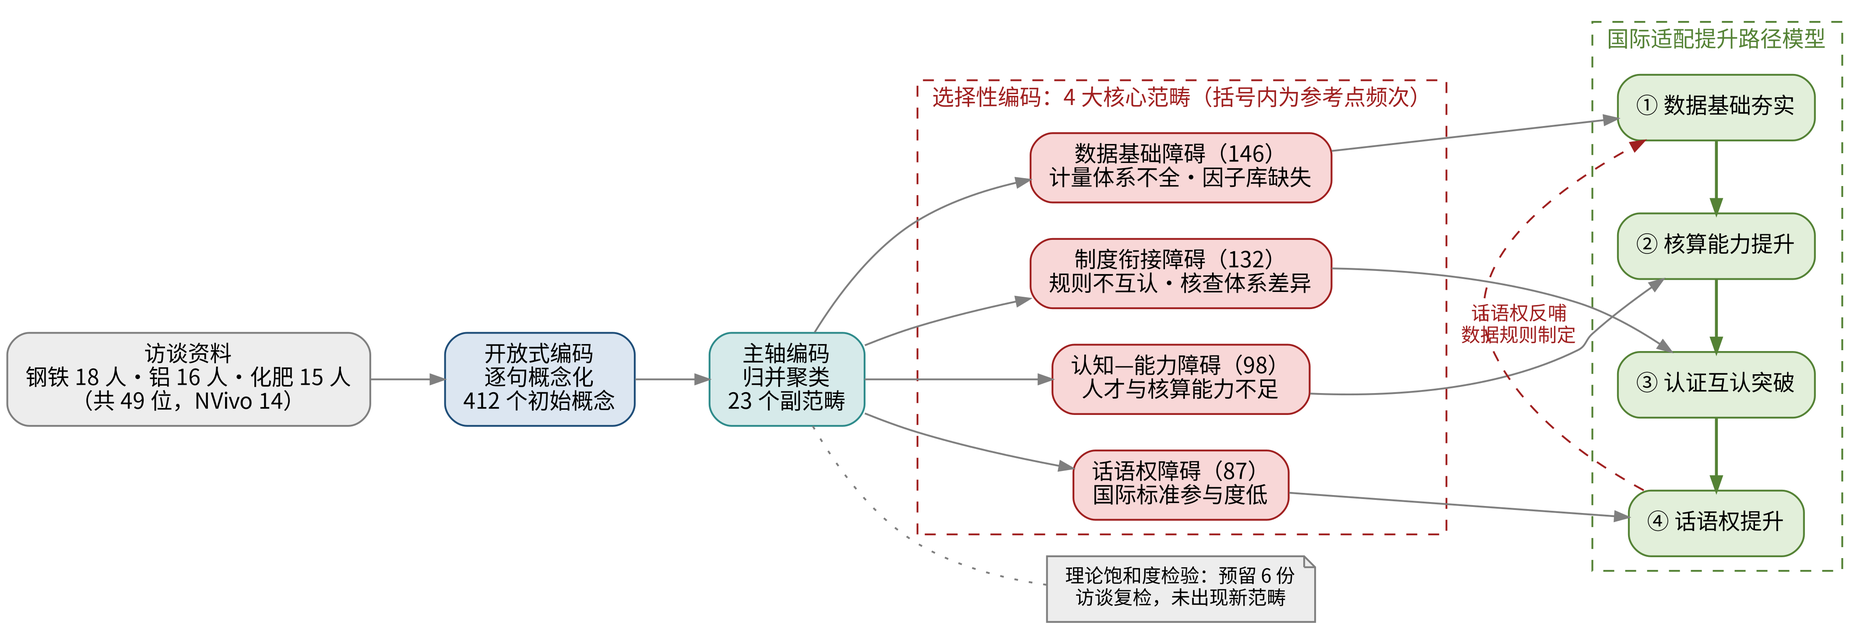
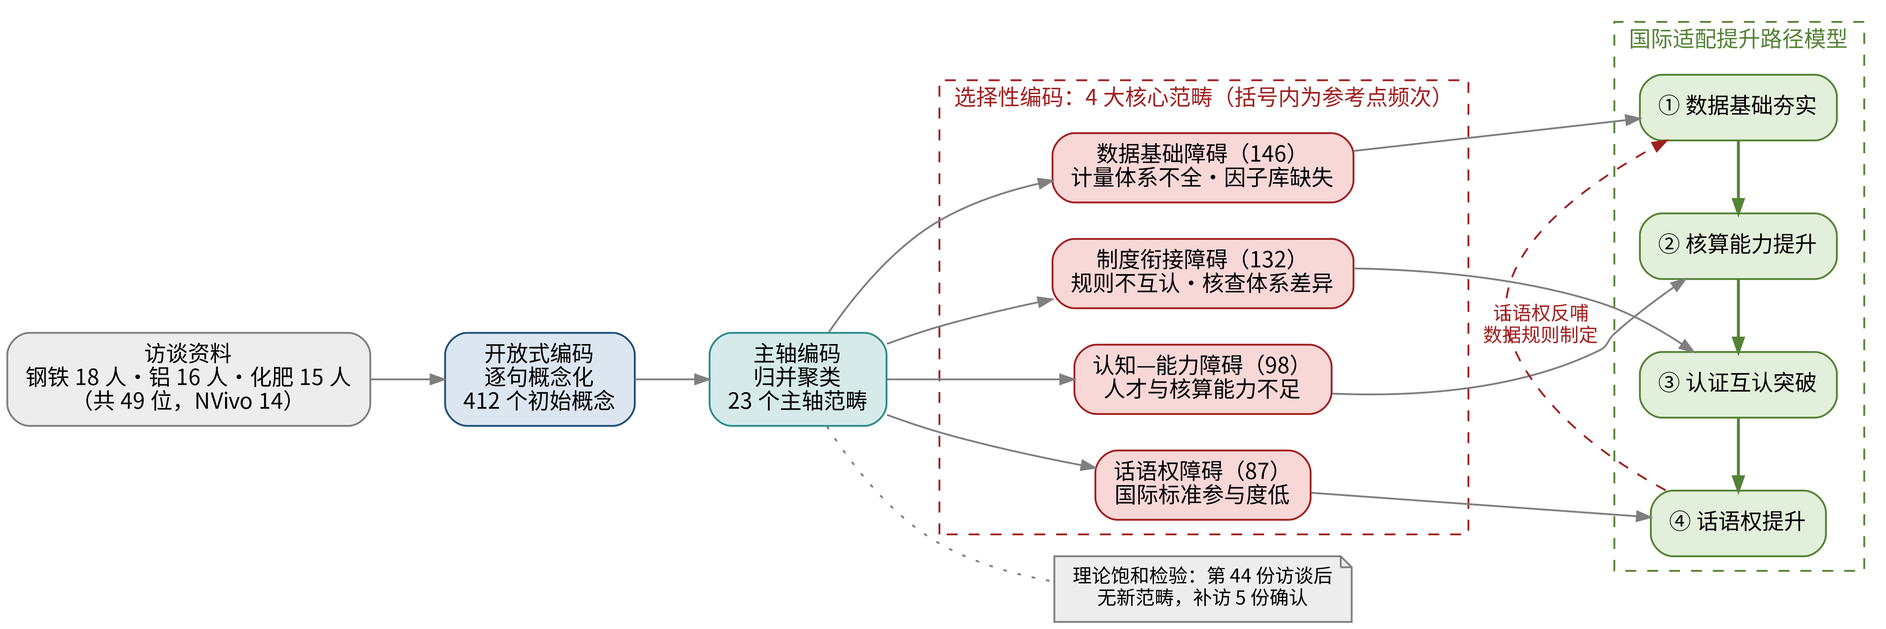
14章正文初稿（24.3万字）+ 引擎OOXML规范性修复（OMML元素序/表格边框序/settings）
Claude-Session: https://claude.ai/code/session_01QzKzGFH9nCcj4dUgUrgzSn

diff --git a/green-standards-book/content_ch02.py b/green-standards-book/content_ch02.py
@@ -57,7 +57,8 @@ def blocks():
           '若标准供给充分、激励设计合理、部门协调顺畅，则政策目标能够以较低损耗转化为治理绩效；反之，即便标准数量可观，政策效能亦会在执行环节大量流失。'
           '本书以随机前沿分析（SFA）框架度量政策适配性：以各省份标准执行绩效相对于生产前沿的技术效率TE刻画执行效率，'
           '以政策有效性损失PEL=1−TE刻画政策目标与实际执行之间的缺口，并将PEL进一步分解为供给不足损失、激励不完善损失与协调失灵损失三个来源'
-          f'{cc("aigner1977","battese1995")}。这一度量把“适配”从定性判断转化为可测算、可分解、可比较的定量指标，具体见第11章。'})
+          f'{cc("aigner1977","battese1995")}。这一度量把“适配”从定性判断转化为可测算、可分解、可比较的定量指标，'
+          f'与可持续绩效测度研究构建系统化指标框架的取向一致{c("franciosi2020")}，具体见第11章。'})
     A({'h3': '2.1.4  国际适配性'})
     A({'p': '国际适配性，指中国绿色低碳标准与国际通行标准（ISO/IEC标准、欧盟CBAM规范等）的接轨程度。本书从核算边界、排放因子、生命周期范围、'
           '第三方核查、数据质量、行业覆盖、更新频率与市场衔接八个维度，以国际标准差距指数ISGI度量分维度差距，'
@@ -108,7 +109,7 @@ def blocks():
           '本质上正是政府主导与市场补充相结合的混合供给制度安排，其分工逻辑与衔接机制将在第9章展开。'})
     A({'p': '标准与技术创新的关系是标准化经济学的前沿议题，也是绿色低碳标准区别于一般标准的关键之处。绿色低碳标准位于标准化政策与环境规制的交叉点：'
           f'作为环境规制，适度严格的标准可通过“创新补偿”效应倒逼企业绿色技术创新{c("porter1995")}，能源价格与规制强度的变化会系统性诱导'
-          f'节能减排方向的技术进步{c("popp2002")}；作为标准化政策，标准通过统一技术语言降低创新的市场不确定性。'
+          f'节能减排方向的技术进步{c("popp2002")}，美国制造业的证据亦证实规制压力与环境创新显著正相关{c("brunnermeier2003")}；作为标准化政策，标准通过统一技术语言降低创新的市场不确定性。'
           f'{c("blind2017", paren=False)}基于欧洲企业数据发现，在市场不确定性较高的情形下，标准相对于直接规制更有利于创新；'
           f'{c("foucart2021", paren=False)}的理论与经验分析表明，技术标准通过筛选技术路线影响产品创新的方向与强度；'
           f'{c("blind2022", paren=False)}则揭示了企业参与标准制定与专利、发表等创新产出之间的互补关系。这些研究共同提示：'
@@ -154,7 +155,8 @@ def blocks():
           '的演化逻辑，而非一步到位的最优设计。这一定位决定了本书对标准体系的研究必须采用动态演化的方法论，而非静态比较的均衡分析。'})
     A({'p': f'{c("dosi1982", paren=False)}提出的技术范式与技术轨道概念，进一步刻画了技术变迁的方向性。技术范式界定了“值得解决的问题”'
           '与“解决问题的模式”，技术轨道则是范式内技术进步的常规路径；范式转换期往往伴随激烈的路线竞争与制度重构。'
-          '“双碳”目标驱动的绿色转型正是一场典型的技术—经济范式转换：能源系统从化石基转向零碳基，工业过程从末端治理转向全生命周期管理。'
+          f'“双碳”目标驱动的绿色转型正是一场典型的技术—经济范式转换：能源系统从化石基转向零碳基，工业过程从末端治理转向全生命周期管理，'
+          f'数字化能否真正降低能源需求亦成为范式转换中悬而未决的议题{c("lange2020")}。'
           '在这一转换中，标准扮演着“守门人”的角色——它既是新范式技术知识的载体，又构成旧范式技术退出的选择环境；'
           '标准的严格程度与更新速度，直接决定范式转换的节奏。与之相关，碳锁定研究警示：既有高碳技术—制度复合体具有强大的自我维持能力，'
           f'突破锁定需要政策、技术与市场的协同发力{cc("arthur1989","aghion2016")}，这为“三重驱动力”的分析框架提供了演化经济学注脚。'})
@@ -171,14 +173,15 @@ def blocks():
           '理性有限时，演化稳定均衡比完全理性的纳什均衡更贴近现实。绿色低碳标准的制定与采纳恰属此类情境：政府在强制推行与激励引导之间权衡，'
           '企业在积极响应与被动观望之间摇摆，国际组织在接纳衔接与排斥壁垒之间选择，三方策略通过支付结构相互耦合、动态调整。'
           '与演化视角一脉相承的还有适应性治理思想：面对深度不确定的技术与政策环境，治理架构不应追求一次性最优设计，'
-          '而应内嵌感知—反馈—修订的适应回路，通过小步快调保持制度与环境的动态匹配。本书第7章的三方演化博弈模型、'
+          f'而应内嵌感知—反馈—修订的适应回路，通过小步快调保持制度与环境的动态匹配，技术在泛化扩散中经由使用者持续再配置而演化的经验事实亦印证了这一逻辑{c("hyysalo2023")}。本书第7章的三方演化博弈模型、'
           '第10章基于技术—政策偏离度的动态更新触发机制，分别是这一理论传统在机理刻画与机制设计上的具体运用。'})
     A({'h3': '2.2.3  制度经济学与全球治理理论'})
     A({'p': f'制度经济学将标准置于更宏观的制度变迁图景之中。{c("north1990", paren=False)}把制度定义为“社会的博弈规则”，'
           '强调制度通过约束人际互动降低不确定性与交易成本；制度变迁通常是渐进的、边际的，且因组织的学习与既得利益的存在而呈现路径依赖。'
           '这一框架对本书有三点启示：其一，标准是典型的正式制度，绿色低碳标准体系建设本质上是一场制度变迁，其速度与方向受制于制度矩阵的整体状态；'
           '其二，制度变迁的行动主体是组织——政府部门、行业协会、领军企业与国际机构在相对价格变化（碳价上升、绿色溢价显现）的激励下推动规则重构，'
-          '这为第7章的博弈主体设定提供了依据；其三，制度的报酬递增特性意味着标准体系一旦形成即难以整体重构，'
+          f'制度压力驱动中小企业绿色商业模式创新的微观证据即是明证{c("lee2024")}，这为第7章的博弈主体设定提供了依据；'
+          '其三，制度的报酬递增特性意味着标准体系一旦形成即难以整体重构，'
           '体系设计必须在起点上审慎对待结构选择——这正是第9章将体系架构作为独立研究对象的理由。'})
     A({'p': f'{c("aoki2001", paren=False)}的比较制度分析进一步揭示了制度的系统性与互补性。在其框架中，制度是博弈参与人共有信念的自我实施系统，'
           '不同域的制度安排相互支撑、形成互补性整体；由于制度互补性的存在，单项制度的跨国移植往往因缺乏配套制度而失效。'
@@ -198,7 +201,7 @@ def blocks():
           f'进而牵引出口国的标准与碳定价制度向欧盟靠拢{c("liu2025")}。对中国而言，布鲁塞尔效应既是外压也是镜鉴：'
           '它揭示了“市场规模×规制能力”转化为标准输出能力的一般机制，而中国恰恰具备超大规模市场这一必要条件，'
           '缺的是规制体系的完备性与国际公信力——这正是本书体系构建与适配评估两大模块试图回应的现实命题。'})
-    A({'p': '在全球气候治理的宏观层面，治理架构的演变深刻塑造着标准的功能定位。'
+    A({'p': f'在全球气候治理的宏观层面，气候政策历来是经济逻辑与政治约束交织的产物{c("helm2009")}，治理架构的演变深刻塑造着标准的功能定位。'
           f'{c("victor2011", paren=False)}指出，全球气候合作长期陷入“僵局”，全面且有约束力的多边条约难以达成；'
           f'{c("keohane2016", paren=False)}将现实中的气候治理概括为松散耦合的“机制复合体”，合作与分歧并存；'
           f'{c("falkner2016", paren=False)}认为《巴黎协定》确立了“国家自主贡献+全球盘点”的新逻辑，将治理重心从国际谈判转向国内政策；'
@@ -255,9 +258,11 @@ def blocks():
           f'{c("sun2022", paren=False)}依据“双碳”目标要求提出了涵盖节能、非化石能源、碳核算、碳汇等领域的标准体系建设思路；'
           f'《碳达峰碳中和标准体系建设指南》{c("sac2023")}以“基础通用—碳减排—碳清除—市场化机制”四个一级子体系统摄63个三级子体系，'
           '构成目前最权威的官方框架。在行业与区域层面，'
-          f'{c("chen2016", paren=False)}较早探讨了低碳农业标准化的理论依据与发展对策；'
+          f'{c("chen2016", paren=False)}较早探讨了低碳农业标准化的理论依据与发展对策，'
+          f'而农业废弃物循环利用商业模式的成败同样有赖于统一标准与制度支撑{c("donner2021")}；'
           f'{c("cao2024", paren=False)}构建了广东省产业园区绿色低碳标准体系框架，体现了地方与园区尺度的实践探索；'
-          f'{c("chen2025", paren=False)}对绿色金融统计标准的国际比较研究，则揭示了金融维度标准与实体维度标准衔接不足的结构性问题。'
+          f'{c("chen2025", paren=False)}对绿色金融统计标准的国际比较研究，则揭示了金融维度标准与实体维度标准衔接不足的结构性问题，'
+          f'而企业ESG参与及其治理基础的度量同样有赖于统一的披露规则{c("cai2024")}。'
           f'在专项工具层面，{c("huang2023", paren=False)}总结了碳标签推广应用的国际经验并提出中国策略；'
           f'{c("lan2024", paren=False)}讨论了自愿碳交易市场的产权量化标准与生态价值实现路径；'
           f'{c("zhang2025b", paren=False)}则从自愿与强制碳减排市场协同的角度论证了标准统一对市场衔接的基础作用。'})
@@ -300,7 +305,8 @@ def blocks():
           '意味着核算规则与碳价水平的双重差距将直接折算为中国出口企业的边境成本。在核算规则层面，中国已发布GB/T 24067-2024'
           '产品碳足迹量化通则并对标ISO 14067，截至2025年6月发布9项产品碳足迹国家标准，但与欧盟要求的产品环境足迹方法学在系统边界、'
           '电力因子与数据质量要求上仍存在实质性差异。既有适配评估研究多以定性比对或个别参数对照为主，'
-          '缺乏覆盖多维度、可跨行业比较的量化指数；对“标准差距→合规成本→贸易与产出损失”传导链条的建模仍然粗糙，'
+          f'缺乏覆盖多维度、可跨行业比较的量化指数，也未形成环境影响评价领域那样整体化的累积效应评估工具{c("declerck2023")}；'
+          '对“标准差距→合规成本→贸易与产出损失”传导链条的建模仍然粗糙，'
           '难以支撑精细化的政策优先序设计。'})
     A({'p': '综合来看，国际衔接与适配评估文献流的成果集中于碳关税税负的测算，而对更基础的问题——中国标准与国际标准的差距究竟有多大、'
           '分布在哪些维度、弥合差距的收益几何——回答不足。评估对象上重碳价轻标准，评估方法上重总量模拟轻维度分解，'
@@ -350,6 +356,7 @@ def blocks():
     # ---------------- 2.5 本书的理论分析框架 ----------------
     A({'h2': '2.5  本书的理论分析框架'})
     A({'p': '基于上述概念界定、理论梳理与文献述评，本书构建以三大理论支柱支撑三大研究模块的理论分析框架，'
+          f'这一整合取向延续了作者前期以可持续溢出视角贯通循环经济、环境发展与社会地位的探索{c("cai2025")}，'
           '其逻辑关系如图2.1所示。'})
     A({'fig': 'figs/fig2_1.png', 'caption': '图2.1  理论基础与研究框架的逻辑关系', 'width_cm': 13.5})
     A({'p': '由图2.1可见，三大理论支柱与三大研究模块之间存在明确的支撑映射。标准化经济学提供微观机制：网络外部性与标准间互补替代关系'

diff --git a/green-standards-book/content_ch12.py b/green-standards-book/content_ch12.py
@@ -66,11 +66,11 @@ def blocks():
           f'计费的合规成本，绿色贸易壁垒对企业既可能产生倒逼升级的正效应，也可能形成挤压利润的陷阱效应{cc("lu2023","liu2024")}。'})
     A({'p': 'CBAM将上述抽象机制具体化为可计算的贸易成本。从制度设计看，CBAM要求进口产品按欧盟认可的方法核算隐含排放，允许扣减'
           f'在原产国已实际支付的碳价，无核证数据者按欧盟缺省值计费{cc("marcu2020","cosbey2019")}；2025年10月生效的Omnibus简化'
-          '条例以每年50吨的单一质量门槛豁免了约九成中小进口商，却仍保留约99%的隐含排放覆盖，且电力与氢不适用豁免——规制重心'
+          '条例以每年50吨的单一质量门槛豁免了约九成进口商（多为中小企业），却仍保留约99%的隐含排放覆盖，且电力与氢不适用豁免——规制重心'
           '恰恰锁定大宗高碳产品。从暴露规模看，按2022年口径，中国对欧盟出口CBAM覆盖商品约205亿美元，其中钢铁约146亿美元、铝约'
           '55亿美元，钢铁占受影响出口的九成以上；六类商品合计仅占中国对欧出口总额约0.8%，总量占比虽小，但高度集中于少数高碳'
           f'行业，行业层面的冲击强度远超总量印象{cc("chen2024","yang2025")}。更重要的是价差基础：2025年EUA年均价约73欧元/吨，'
-          '同年全国碳市场成交均价为62.36元/吨，中欧碳价相差数倍，这一价差乘以隐含排放，就是理论上的单位产品关税敞口。'})
+          '同年全国碳市场成交均价为62.36元/吨，以同一币种折算，中欧碳价相差近十倍，这一价差乘以隐含排放，就是理论上的单位产品关税敞口。'})
     A({'p': '既有讨论多将CBAM冲击归因于碳价差距，本章强调一个被低估的变量：标准差距。碳价差距决定潜在税基的价格，标准差距决定'
           '这一价格在多大比例上落到中国企业头上——隐含排放按实测数据还是按惩罚性缺省值计费，取决于核算与核查标准的互认；在华'
           '已付碳价能否抵扣、抵扣多少，取决于碳市场机制与欧盟规则的衔接程度。换言之，碳价差距是“汇率”，标准差距是“折算规则”，'
@@ -192,8 +192,8 @@ def blocks():
           f'缺省值计费——核算结果的国际可信性正是企业碳数据比较研究反复识别的瓶颈{cc("he2022","klaassen2021")}。'})
     A({'p': f'第二梯队的差距同样各有制度根源。生命周期范围差距{d["lca"]:.2f}：中国产品碳足迹标准化起步晚，2024年8月才发布对标'
           f'ISO 14067的核算通则GB/T 24067-2024，截至2025年6月发布的产品碳足迹国家标准仅9项，相对于以千计的出口产品类别，行业'
-          f'细则覆盖仍是杯水车薪{cc("wu2015","tong2018")}；排放因子差距{F(d["factor"], 2)}：国家温室气体排放因子数据库2025年'
-          '刚具雏形，电力碳足迹因子2025年1月才首次发布，因子的时空分辨率与更新时效同欧盟按工艺、按区域逐年更新的缺省值体系'
+          f'细则覆盖仍是杯水车薪{cc("wu2015","tong2018")}；排放因子差距{F(d["factor"], 2)}：按碳排放双控制度体系建设的部署，'
+          '国家温室气体排放因子数据库到2025年才基本建成，2023年度电力碳足迹因子2025年1月才首次发布，因子的时空分辨率与更新时效同欧盟按工艺、按区域逐年更新的缺省值体系'
           f'相比仍有代差。数据质量差距{F(d["data"], 2)}反映企业计量监测基础的参差，更新频率差距{F(d["update"], 2)}反映标准'
           f'复审周期长于技术迭代周期的滞后，核算边界差距{F(d["boundary"], 2)}相对较小——得益于中国企业碳核算规范总体沿用'
           f'GHG Protocol与ISO 14064的框架，边界规则的国际趋同度较高{c("chen2011")}。'})
@@ -325,7 +325,7 @@ def blocks():
           '约130亿欧元的实际区间校准各行业覆盖出口额$e_{j}X_{j}$。排放系数$\\rho_{j}$按行业隐含排放强度取值，并区分实测采信'
           '与缺省值计费两种状态。CBAM覆盖比例随欧盟免费配额逐年退坡而抬升，按条例安排至2034年达到全额覆盖，模拟期内逐年'
           '递增。'})
-    A({'p': f'在共同参数之上设定三个情景。**基准情景**：适配水平冻结于2025年现状，θ_j按表12.2的CIAI取值，核查互认与碳价'
+    A({'p': f'在共同参数之上设定三个情景。**基准情景**：适配水平冻结于2025年现状，$\\theta_j$按表12.2的CIAI取值，核查互认与碳价'
           '抵扣谈判无实质进展，无核证数据的出口按缺省值计费。**适配改进情景**：对接第9章体系架构与第10章动态更新机制的'
           '协同建设路径，八维度差距在“十五五”期间沿短板优先次序收敛——碳足迹行业细则扩容、核查互认协议落地、碳市场扩围'
           '提价并提高有偿分配比例——CIAI相应抬升，θ同步改善，实测数据采信比例提高。**停滞情景**：中国适配水平原地踏步而'
@@ -353,7 +353,7 @@ def blocks():
                      ['水泥', f'{t27["cement"]:g}', f'{t30["cement"]:g}', f'{t30["cement"]*(1-cut):.1f}',
                       f'{ob["cement"]:.2f}', f'{oi["cement"]:.2f}'],
                      ['合计', f'{sum27:.1f}', f'{sum30:.1f}', f'{sum30_imp:.1f}', '—', '—']],
-                 'note': f'注：适配改进情景下碳关税较基准情景削减{pct(cut, 0)}；产出损失为相对无冲击反事实路径的偏离幅度，'
+                 'note': f'注：适配改进情景下碳关税较基准情景削减{pct(cut, 0)}；产出损失为相对无冲击反事实路径的偏离幅度（负号表示产出下降），'
                          '含经列昂惕夫逆矩阵放大的间接效应。数据来源：本书动态投入产出模型模拟结果。',
                  'size_pt': 9,
                  'col_align': ['l', 'c', 'c', 'c', 'c', 'c']}})
@@ -412,8 +412,9 @@ def blocks():
           f'碳规制的国际输出预留接口——绿色贸易壁垒既是压力也是话语权重构的窗口{cc("lu2023","zhuang2023")}。'})
 
     A({'h3': '12.6.2  维度与行业的改进优先序'})
-    A({'p': '哪个维度的改进边际收益最大？对式(12-6)、(12-7)构成的复合函数求偏导，维度$k$差距收敛的边际关税削减为：'})
-    A({'eq': r'MB_{k}=-\frac{\partial\tau_{j}}{\partial\mathrm{ISGI}_{jk}}'
+    A({'p': '哪个维度的改进边际收益最大？将式(12-3)、式(12-7)依次代入式(12-6)，碳关税即成为各维度差距的复合函数，对维度差距'
+          '求偏导，得到维度$k$的差距每收敛一个单位所削减的关税额，即适配改进的边际收益：'})
+    A({'eq': r'MB_{k}=\frac{\partial\tau_{j}}{\partial\mathrm{ISGI}_{jk}}'
              r'=\left(1-\theta_{0}\right)\pi_{jk}\,P^{CN}\,e_{j}\,\rho_{j}\,X_{j}', 'num': '12-12'})
     A({'p': f'式(12-12)表明，边际收益与贸易额权重$\\pi_{{jk}}$成正比：权重越高的维度，单位差距收敛换取的关税削减越大。'
           f'结合12.3节的测算，市场衔接（差距{d["market"]:.2f}）与第三方核查（{d["verify"]:.2f}）既是差距最大的维度，'

diff --git a/green-standards-book/docxbuilder.py b/green-standards-book/docxbuilder.py
@@ -69,8 +69,49 @@ def latex_batch_to_omml(latex_list, workdir):
     for i in range(len(latex_list)):
         if i not in results:
             raise RuntimeError(f'公式 {i} pandoc OMML 转换失败: {latex_list[i][:80]}')
-        out.append(results[i])
+        out.append(_fix_omml_order(results[i]))
     return out
+
+
+def _fix_omml_order(om):
+    """修正 pandoc 输出中不符合 ECMA-376 顺序的 OMML 子元素。
+
+    - m:mcPr 序列应为 (count?, mcJc?)，pandoc 输出为 mcJc, count；
+    - m:rPr(数学) 序列应为 (lit?, (nor|(scr?, sty?)), brk?, aln?)，
+      pandoc 输出 sty 在 scr 之前。
+    """
+    def resort(el, rank):
+        children = list(el)
+        ranked = [(rank.get(etree.QName(ch).localname, 99), idx, ch)
+                  for idx, ch in enumerate(children)]
+        if ranked == sorted(ranked):
+            return
+        for ch in children:
+            el.remove(ch)
+        for _, _, ch in sorted(ranked):
+            el.append(ch)
+
+    RANKS = {
+        'mcPr': {'count': 0, 'mcJc': 1},
+        'rPr': {'lit': 0, 'nor': 1, 'scr': 1, 'sty': 2, 'brk': 3, 'aln': 4},
+        'dPr': {'begChr': 0, 'sepChr': 1, 'endChr': 2, 'grow': 3, 'shp': 4, 'ctrlPr': 5},
+        'naryPr': {'chr': 0, 'limLoc': 1, 'grow': 2, 'subHide': 3, 'supHide': 4, 'ctrlPr': 5},
+        'mPr': {'baseJc': 0, 'plcHide': 1, 'rSpRule': 2, 'cGpRule': 3, 'rSp': 4,
+                'cSp': 5, 'cGp': 6, 'mcs': 7, 'ctrlPr': 8},
+        'fPr': {'type': 0, 'ctrlPr': 1},
+        'accPr': {'chr': 0, 'ctrlPr': 1},
+        'barPr': {'pos': 0, 'ctrlPr': 1},
+        'groupChrPr': {'chr': 0, 'pos': 1, 'vertJc': 2, 'ctrlPr': 3},
+        'radPr': {'degHide': 0, 'ctrlPr': 1},
+        'eqArrPr': {'baseJc': 0, 'maxDist': 1, 'objDist': 2, 'rSpRule': 3, 'rSp': 4,
+                    'ctrlPr': 5},
+        'boxPr': {'opEmu': 0, 'noBreak': 1, 'diff': 2, 'brk': 3, 'aln': 4, 'ctrlPr': 5},
+        'limLowPr': {'ctrlPr': 0}, 'limUppPr': {'ctrlPr': 0},
+    }
+    for tag, rank in RANKS.items():
+        for el in om.iter('{%s}%s' % (M_NS, tag)):
+            resort(el, rank)
+    return om
 
 
 # 行内标记：$latex$  **粗**  *斜*  {sup:x} {sub:x}
@@ -140,6 +181,13 @@ class BookBuilder:
         self.text_width_cm = 21.0 - left - right  # 正文区宽度
 
     def _setup_default_style(self):
+        # settings.xml 中 zoom 需 percent 属性（XSD 校验）
+        try:
+            zoom = self.doc.settings.element.find(qn('w:zoom'))
+            if zoom is not None and zoom.get(qn('w:percent')) is None:
+                zoom.set(qn('w:percent'), '100')
+        except Exception:
+            pass
         st = self.doc.styles['Normal']
         st.font.name = TNR
         st.font.size = Pt(SIZE['小四'])
@@ -300,6 +348,7 @@ class BookBuilder:
                        align='center', cn_font=SONG):
         cell.text = ''
         p = cell.paragraphs[0]
+        align = {'l': 'left', 'c': 'center', 'r': 'right'}.get(align, align)
         p.alignment = {'center': WD_ALIGN_PARAGRAPH.CENTER,
                        'left': WD_ALIGN_PARAGRAPH.LEFT,
                        'right': WD_ALIGN_PARAGRAPH.RIGHT}[align]
@@ -366,23 +415,26 @@ class BookBuilder:
         tblPr = tbl.tblPr
         # 移除样式默认边框
         borders = OxmlElement('w:tblBorders')
-        for name, sz in (('top', 12), ('bottom', 12)):
+        spec = (('top', 'single', 12), ('left', 'none', None), ('bottom', 'single', 12),
+                ('right', 'none', None), ('insideH', 'none', None), ('insideV', 'none', None))
+        for name, val, sz in spec:
             el = OxmlElement(f'w:{name}')
-            el.set(qn('w:val'), 'single')
-            el.set(qn('w:sz'), str(sz))
-            el.set(qn('w:color'), '000000')
+            el.set(qn('w:val'), val)
+            if sz:
+                el.set(qn('w:sz'), str(sz))
+                el.set(qn('w:color'), '000000')
             borders.append(el)
-        for name in ('left', 'right', 'insideV'):
-            el = OxmlElement(f'w:{name}')
-            el.set(qn('w:val'), 'none')
-            borders.append(el)
-        iv = OxmlElement('w:insideH')
-        iv.set(qn('w:val'), 'none')
-        borders.append(iv)
         old = tblPr.find(qn('w:tblBorders'))
         if old is not None:
             tblPr.remove(old)
-        tblPr.append(borders)
+        # 按 CT_TblPrBase 序列插入：tblBorders 须位于 shd/tblLayout/tblCellMar/tblLook 之前
+        after = [qn(f'w:{n}') for n in ('shd', 'tblLayout', 'tblCellMar', 'tblLook',
+                                        'tblCaption', 'tblDescription')]
+        anchor = next((ch for ch in tblPr if ch.tag in after), None)
+        if anchor is not None:
+            anchor.addprevious(borders)
+        else:
+            tblPr.append(borders)
         # 表头行下细线
         first = table.rows[0]._tr
         for tc in first.findall(qn('w:tc')):
@@ -396,7 +448,14 @@ class BookBuilder:
             bot.set(qn('w:sz'), '6')
             bot.set(qn('w:color'), '000000')
             tcB.append(bot)
-            tcPr.append(tcB)
+            # CT_TcPrBase 序列：tcBorders 须位于 shd/vAlign 等之前
+            late = [qn(f'w:{n}') for n in ('shd', 'noWrap', 'tcMar', 'textDirection',
+                                           'tcFitText', 'vAlign', 'hideMark')]
+            anchor = next((ch for ch in tcPr if ch.tag in late), None)
+            if anchor is not None:
+                anchor.addprevious(tcB)
+            else:
+                tcPr.append(tcB)
 
     # ------------------------------------------------------------- 参考文献
     def add_references(self, refs, heading='参考文献'):

diff --git a/green-standards-book/content_ch13.py b/green-standards-book/content_ch13.py
@@ -333,9 +333,10 @@ def blocks():
     A({'fig': 'figs/fig13_3.png', 'caption': '图13.3  钢铁、铝、化肥行业国际适配关键指标对比', 'width_cm': 13.5})
     A({'p': f'由图13.3可见，三行业在定量指标与质性发现上呈现高度一致的分化格局。左侧面板显示，ISGI按钢铁（{F(g_st, 2)}）、'
           f'铝（{F(g_al, 2)}）、化肥（{F(g_ft, 2)}）递增，CIAI按钢铁（{F(c_st, 2)}）、铝（{F(c_al, 2)}）、化肥（{F(c_ft, 2)}）'
-          '递减，表明三行业的国际适配水平呈清晰梯度；右侧面板的访谈范畴频次分布则显示，钢铁行业的表述集中于制度衔接类'
-          '范畴，铝行业集中于制度衔接与数据基础的交叉地带（绿电认定既是数据问题又是互认问题），化肥行业则以数据基础与'
-          '认知—能力类范畴为主。两组信息拼合出一幅“行业适配阶梯”：化肥尚在夯实数据地基，铝在攻认证互认的关口，钢铁'
+          '递减，表明三行业的国际适配水平呈清晰梯度；右侧面板给出访谈编码四个核心范畴的参考点频次分布，数据基础障碍与'
+          '制度衔接障碍居前两位，构成三行业共同面对的主要堵点。进一步按行业拆分编码参考点还可发现，钢铁行业的表述集中于'
+          '制度衔接类范畴，铝行业集中于制度衔接与数据基础的交叉地带（绿电认定既是数据问题又是互认问题），化肥行业则以'
+          '数据基础与认知—能力类范畴为主。两组信息拼合出一幅“行业适配阶梯”：化肥尚在夯实数据地基，铝在攻认证互认的关口，钢铁'
           '已逼近规则话语权的门槛。三行业恰好占据了后文四阶提升路径的不同阶位，这一“同一时点、不同阶位”的横截面观察，'
           '为路径模型的阶段划分提供了跨案例的经验支撑。'})
     A({'p': f'跨案例比较还揭示了两点共性。其一，无论行业与阶位差异如何，受访者对“缺省值惩罚”的感知高度一致：数据能力'
@@ -357,9 +358,10 @@ def blocks():
           '数据基础障碍最“浅”、最可操作，频次最低的话语权障碍最“深”、最具战略性，这一倒置关系本身就是理论模型的重要'
           '线索：企业叙述的密度反映的是障碍的当下紧迫性而非终局重要性。'})
     A({'fig': 'figs/fig13_2.png', 'caption': '图13.2  国际适配障碍因素的扎根理论编码结构', 'width_cm': 13.5})
-    A({'p': f'由图13.2可见，编码结构呈“漏斗—阶梯”复合形态：左侧漏斗部分展示{oc}条初始概念经{ax}个主轴范畴向{ncore}个'
-          '核心范畴的逐层归并，四个核心范畴按参考点频次以不同宽度呈现；右侧阶梯部分则展示四个核心范畴与“数据基础→'
-          '核算能力→认证互认→话语权提升”四阶提升路径的对应关系——每一核心范畴恰好构成路径上一个阶段的主要堵点。'
+    A({'p': f'由图13.2可见，编码结构呈“漏斗—阶梯”复合形态：左侧编码主线展示{oc}条初始概念经{ax}个主轴范畴向{ncore}个'
+          '核心范畴的逐层收敛归并，四个核心范畴均括注参考点频次；右侧阶梯部分则展示四个核心范畴与“数据基础→'
+          '核算能力→认证互认→话语权提升”四阶提升路径的对应关系——每一核心范畴恰好构成路径上一个阶段的主要堵点；'
+          '而由第四阶回指第一阶的虚线反馈则表明，话语权的提升可反哺数据与规则制定，使阶梯呈螺旋上升而非单向线性。'
           '编码结构图的价值在于把资料驱动的归纳过程完整可视化：读者可以沿任一核心范畴向左回溯其主轴范畴与初始概念'
           '构成，也可以向右追踪其在理论模型中的位置，从而对“从原始语句到理论模型”的证据链作直观检视。'})
 
@@ -438,8 +440,8 @@ def blocks():
           '对应、行业排序与时间演化三个层面，将本章扎根理论发现与第12章ISGI-CIAI测算结果进行系统互证。'})
     A({'p': f'第一层互证是障碍范畴与差距维度的对应。第12章八维度ISGI测算显示，差距最大的两个维度是市场衔接'
           f'（{F(d_mkt, 2)}）与第三方核查（{F(d_ver, 2)}），恰与本章频次居前的制度衔接障碍（{fi}条参考点）的两大'
-          '主轴范畴——碳价衔接不畅与核查互认缺失——精确对应；差距居中的排放因子（{0}）与数据质量（{1}）两维度，'
-          .format(F(d_fac, 2), F(d_dat, 2)) +
+          f'主轴范畴——碳价衔接不畅与核查互认缺失——精确对应；差距居中的排放因子（{F(d_fac, 2)}）与数据质量'
+          f'（{F(d_dat, 2)}）两维度，'
           f'对应频次最高的数据基础障碍（{fd}条）；生命周期范围维度（{F(d_lca, 2)}）的差距，在访谈中表现为企业对'
           f'产品层面全生命周期核算的方法与人才储备不足，归入认知—能力障碍（{fc}条）；而差距最小的核算边界'
           f'（{F(d_bnd, 2)}）与行业覆盖（{F(d_cov, 2)}）两维度，在访谈中同样极少被作为主要困难提及——受访者普遍'

diff --git a/green-standards-book/content_ch06.py b/green-standards-book/content_ch06.py
@@ -87,7 +87,8 @@ def blocks():
           '认证规则相当于为全社会的减排努力提供了“度量衡”，供应链上下游的减排投资由此获得一致的计价与显示基础。'
           f'微观实证研究普遍发现标准与创新之间存在显著的正向关联{cc("blind2017", "blind2022")}，标准化对全要素'
           f'生产率的提升作用在中国情境下亦得到验证{c("he2025")}；绿色信贷、环境保护税等制度工具激励绿色创新的'
-          f'证据同样丰富{cc("wang2021", "liu2022")}。当然，制度对技术的作用并非无条件为正：门槛设置过高或与'
+          f'证据同样丰富{cc("wang2021", "liu2022")}，气候条件与信贷风险周期同技术进步的动态关联亦获中国证据'
+          f'支持{c("chen2025b")}。当然，制度对技术的作用并非无条件为正：门槛设置过高或与'
           f'企业能力脱节时，规制可能诱发“陷阱效应”而非“倒逼效应”{c("lu2023")}。本章以互馈系数$\\beta$刻画标准'
           '完善度对技术增长率的净激励，其符号与大小交由数据检验。'})
     A({'h3': '6.1.3  从单向决定到共生演化：Lotka-Volterra刻画的适用性'})
@@ -119,7 +120,8 @@ def blocks():
     A({'h2': '6.2  模型设定'})
     A({'h3': '6.2.1  变量测度与样本区间'})
     A({'p': '模型包含两个状态变量。技术水平$T_t$以绿色低碳技术综合指数度量，基于绿色低碳发明专利存量、研发投入'
-          '强度与技术扩散水平三类指标合成，并以现行技术范式下的潜在前沿为基准归一化，使$T_t\\in[0,1]$的读数具有'
+          f'强度与技术扩散水平三类指标合成，多维指标合成评估国家绿色技术竞争力的做法已有跨国实践可循{c("fang2018")}，'
+          '并以现行技术范式下的潜在前沿为基准归一化，使$T_t\\in[0,1]$的读数具有'
           '“相对前沿完成度”的含义；制度完善度$I_t$取自第4章标准文本数据库，由标准的技术严格程度、覆盖完整性与'
           '层级配套度三个维度加权合成，同样按潜在容量归一化。两个指数的构造细节分别见第4章与本章附注，此处强调'
           '一点：$T_t$与$I_t$在测度来源上完全独立——前者取自专利与研发统计，后者取自标准文本编码——因而后文'
@@ -316,8 +318,8 @@ def blocks():
     A({'p': '采用“NLS+贝叶斯校准”双重策略的理由有二。其一，样本长度有限——尤其是“双碳”后子样本仅有六个'
           '年度观测——纯频率学派估计易受个别年份扰动牵引，先验约束能有效抑制过拟合并保证参数落于经济可行域；'
           '其二，贝叶斯后验提供了参数不确定性的完整刻画，便于对均衡位置与稳定性判据作稳健性评估，而非仅依赖'
-          '点估计。两步结果高度一致：NLS点估计均落在后验90%可信区间之内，表明数据信息而非先验设定主导了'
-          '估计结果。'})
+          f'点估计，并延续了作者前期碳中和动态模拟研究的参数校准策略{c("cai2024b")}。两步结果高度一致：'
+          'NLS点估计均落在后验90%可信区间之内，表明数据信息而非先验设定主导了估计结果。'})
     A({'h3': '6.4.2  分样本估计结果：“双碳”前后的互馈结构变化'})
     A({'p': '2020年9月22日“双碳”目标正式宣示，以此为界将样本划分为2004—2019年与2020—2025年两个子样本'
           '（2020年归入后段），分别估计全部参数。断点设定有充分依据：第4章已论证2020年是标准供给数量、结构'

diff --git a/green-standards-book/content_ch09.py b/green-standards-book/content_ch09.py
@@ -150,7 +150,8 @@ def blocks():
           '企业、科研机构与认证机构，政府角色从“唯一供给者”转向“底线供给者+规则协调者”，这既是降低执法成本、'
           '提高标准适用性的需要，也是把企业信息优势内化进标准文本的需要。其二，强制与自愿工具的组合校准：强制性'
           '标准锚定底线、自愿性标准与认证放大激励，二者的边界应依据企业响应率动态调整——自愿减排市场与强制'
-          f'碳市场的协同研究表明，工具组合的设计直接决定减排激励的强度与分布{cc("zhang2025b", "lan2024")}。'
+          f'碳市场的协同研究表明，工具组合的设计直接决定减排激励的强度与分布{cc("zhang2025b", "lan2024")}，'
+          f'价格与税收机制的协调进路同样是实现“双碳”目标的重要制度杠杆{c("yang2021")}。'
           '其三，国际协调的内生化：博弈阈值显示国际接纳能把企业响应门槛降低一个数量级，因此国际衔接不是体系'
           '建成后的附加环节，而应作为内生变量进入架构设计——这正是9.6节把接口设计单列一节的理据。'})
     A({'p': '综上，三项原则与三层演化规律一一对应：协同互补原则回答“先建什么、如何布局”，规定了体系的空间'
@@ -275,7 +276,8 @@ def blocks():
           f'与环境信息披露要求，但与国际可持续金融标准体系相比，中国绿色金融统计与界定标准在口径统一性、'
           f'披露强制性与第三方鉴证方面仍存在明显差距{c("chen2025")}。该模块的枢纽地位由第5章的互补结构决定：'
           f'核算模块（交互系数{F(Am[4][0], 2)}）与足迹模块（{F(Am[4][1], 2)}）共同向金融模块输出定价信息，'
-          '绿色金融标准的质量决定了这些信息能否转化为资金价格信号。经验研究表明，绿色信贷政策能够显著促进'
+          '绿色金融标准的质量决定了这些信息能否转化为资金价格信号。经验研究表明，金融发展与环境规制的协同'
+          f'是引导工业绿色技术创新方向的关键条件{c("xiong2023")}，绿色信贷政策能够显著促进'
           f'企业绿色创新与低碳转型，但其效力依赖于绿色项目界定的清晰度与信息披露的可信度'
           f'{cc("wang2021", "liu2024b")}——界定模糊会诱发“洗绿”，反噬整个激励链条。'})
     A({'p': '该模块的建设重点有四：统一界定——整合绿色债券、绿色信贷、绿色产业指导目录的口径，形成与中欧'

diff --git a/green-standards-book/diagrams.py b/green-standards-book/diagrams.py
@@ -750,7 +750,7 @@ def fig13_2():
   edge [color="{C['gray']}", arrowsize=0.75, fontsize=10.5, fontcolor="{C['gray']}"];
   SRC [label="访谈资料\\n钢铁 {iv['steel']} 人·铝 {iv['alu']} 人·化肥 {iv['fert']} 人\\n（共 {ntot} 位，NVivo 14）", fillcolor="{C['ltgray']}", color="{C['gray']}"];
   OPEN [label="开放式编码\\n逐句概念化\\n{cd['open_codes']} 个初始概念", fillcolor="{C['ltblue']}", color="{C['blue']}"];
-  AX [label="主轴编码\\n归并聚类\\n{cd['axial']} 个副范畴", fillcolor="{C['ltteal']}", color="{C['teal']}"];
+  AX [label="主轴编码\\n归并聚类\\n{cd['axial']} 个主轴范畴", fillcolor="{C['ltteal']}", color="{C['teal']}"];
   subgraph cluster_core {{ label="选择性编码：{cd['core']} 大核心范畴（括号内为参考点频次）"; style=dashed; color="{C['red']}"; fontcolor="{C['red']}"; fontsize=12;
     G1 [label="数据基础障碍（{ct['data']}）\\n计量体系不全·因子库缺失", fillcolor="{C['ltred']}", color="{C['red']}"];
     G2 [label="制度衔接障碍（{ct['inst']}）\\n规则不互认·核查体系差异", fillcolor="{C['ltred']}", color="{C['red']}"];
@@ -761,7 +761,7 @@ def fig13_2():
     P2 [label="② 核算能力提升", fillcolor="{C['ltgreen']}", color="{C['green']}"];
     P3 [label="③ 认证互认突破", fillcolor="{C['ltgreen']}", color="{C['green']}"];
     P4 [label="④ 话语权提升", fillcolor="{C['ltgreen']}", color="{C['green']}"]; }}
-  SAT [label="理论饱和度检验：预留 6 份\\n访谈复检，未出现新范畴", shape=note, style=filled, fillcolor="{C['ltgray']}", color="{C['gray']}", fontsize=10.5];
+  SAT [label="理论饱和检验：第 44 份访谈后\\n无新范畴，补访 5 份确认", shape=note, style=filled, fillcolor="{C['ltgray']}", color="{C['gray']}", fontsize=10.5];
   {{rank=same; G1; G3; G2; G4;}}
   {{rank=same; P1; P2; P3; P4;}}
   SRC -> OPEN -> AX;

diff --git a/green-standards-book/content_ch05.py b/green-standards-book/content_ch05.py
@@ -321,7 +321,8 @@ def blocks():
           '传导链。碳足迹认证将排放信息落实到产品与企业层面，并经第三方核查赋予公信力，恰好弥合了绿色金融面临的“绿色识别”信息缺口——'
           f'贴标资产的甄别、绿色信贷的贷后监测与碳金融产品的标的计量都直接消费认证结果{cc("wang2021","klaassen2021")}。据此，核算'
           f'标准对绿色金融的总效应超出直接系数本身：除{F(ar[4][0], 2)}的直接传导外，还存在经由碳足迹认证的间接传导'
-          f'（{F(ar[1][0], 2)}×{F(ar[4][1], 2)}）。互补链条的乘数结构意味着，上游标准建设具有超出自身模块的体系性回报。'})
+          f'（{F(ar[1][0], 2)}×{F(ar[4][1], 2)}）。互补链条的乘数结构意味着，上游标准建设具有超出自身模块的体系性回报，'
+          f'这类跨界溢出与数字化转型领域的空间溢出效应实证发现相呼应{c("yan2025")}。'})
     A({'p': f'唯一的负向交互出现在绿色产品状态对碳足迹认证方程：系数−{abs(ar[1][2]):.2f}，t值约1.4，仅具方向性提示意义。其经济逻辑'
           '在于两类标准在功能与市场两个层面的部分重叠：绿色产品评价标准多内含能耗与环保指标，在信息披露功能上与碳足迹标签形成竞争；'
           f'认证机构与企业合规预算有限，绿色产品认证对碳足迹认证存在资源挤占{c("huang2023")}。尽管统计上不够精确，这一方向性证据仍有'

diff --git a/green-standards-book/content_ch03.py b/green-standards-book/content_ch03.py
@@ -105,7 +105,7 @@ def blocks():
     # ---------------- 3.1.2 ----------------
     A({'h3': '3.1.2  制度化规制阶段（2005—2020年）：标准嵌入市场与监管'})
     A({'p': f'2005年是国际绿色低碳标准化史上的分水岭。这一年，《京都议定书》正式生效，更重要的是，欧盟碳排放交易体系于1月1日启动运行，'
-          f'成为全球首个跨国强制性总量控制与交易体系。EU ETS的制度史充满波折：第一阶段（2005—2007年）因配额免费超发导致价格一度归零；'
+          f'成为全球首个跨国强制性总量控制与交易体系，与他国碳市场链接的收益与弊端亦随之进入国际政策议程{c("flachsland2009")}。EU ETS的制度史充满波折：第一阶段（2005—2007年）因配额免费超发导致价格一度归零；'
           f'第二阶段（2008—2012年）遭遇金融危机冲击，配额过剩问题延续；第三阶段（2013—2020年）转向以拍卖为主的分配方式并收紧总量，'
           f'但历史过剩配额仍压制价格{cc("ellerman2010", "grubb2006")}。从价格轨迹看，2013—2017年欧盟配额（EUA）价格长期低于每吨10欧元，'
           f'大致在3—9欧元区间徘徊；2018年市场稳定储备改革落地后价格快速上行，2018年8月至2020年3月大致运行于18—30欧元区间。'
